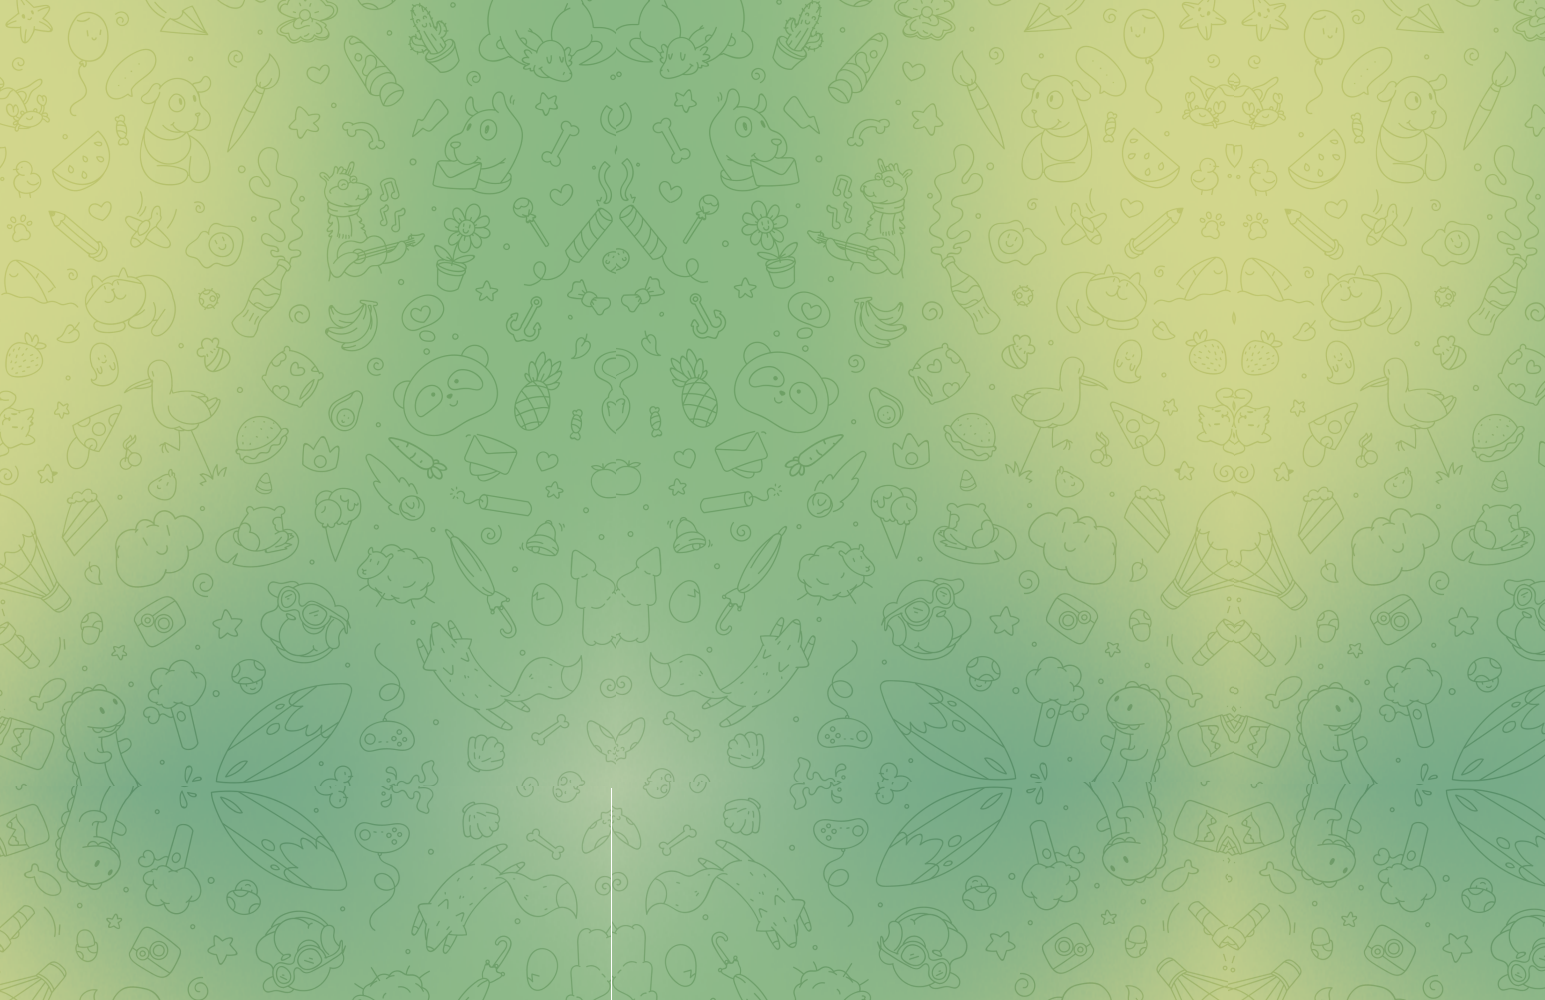
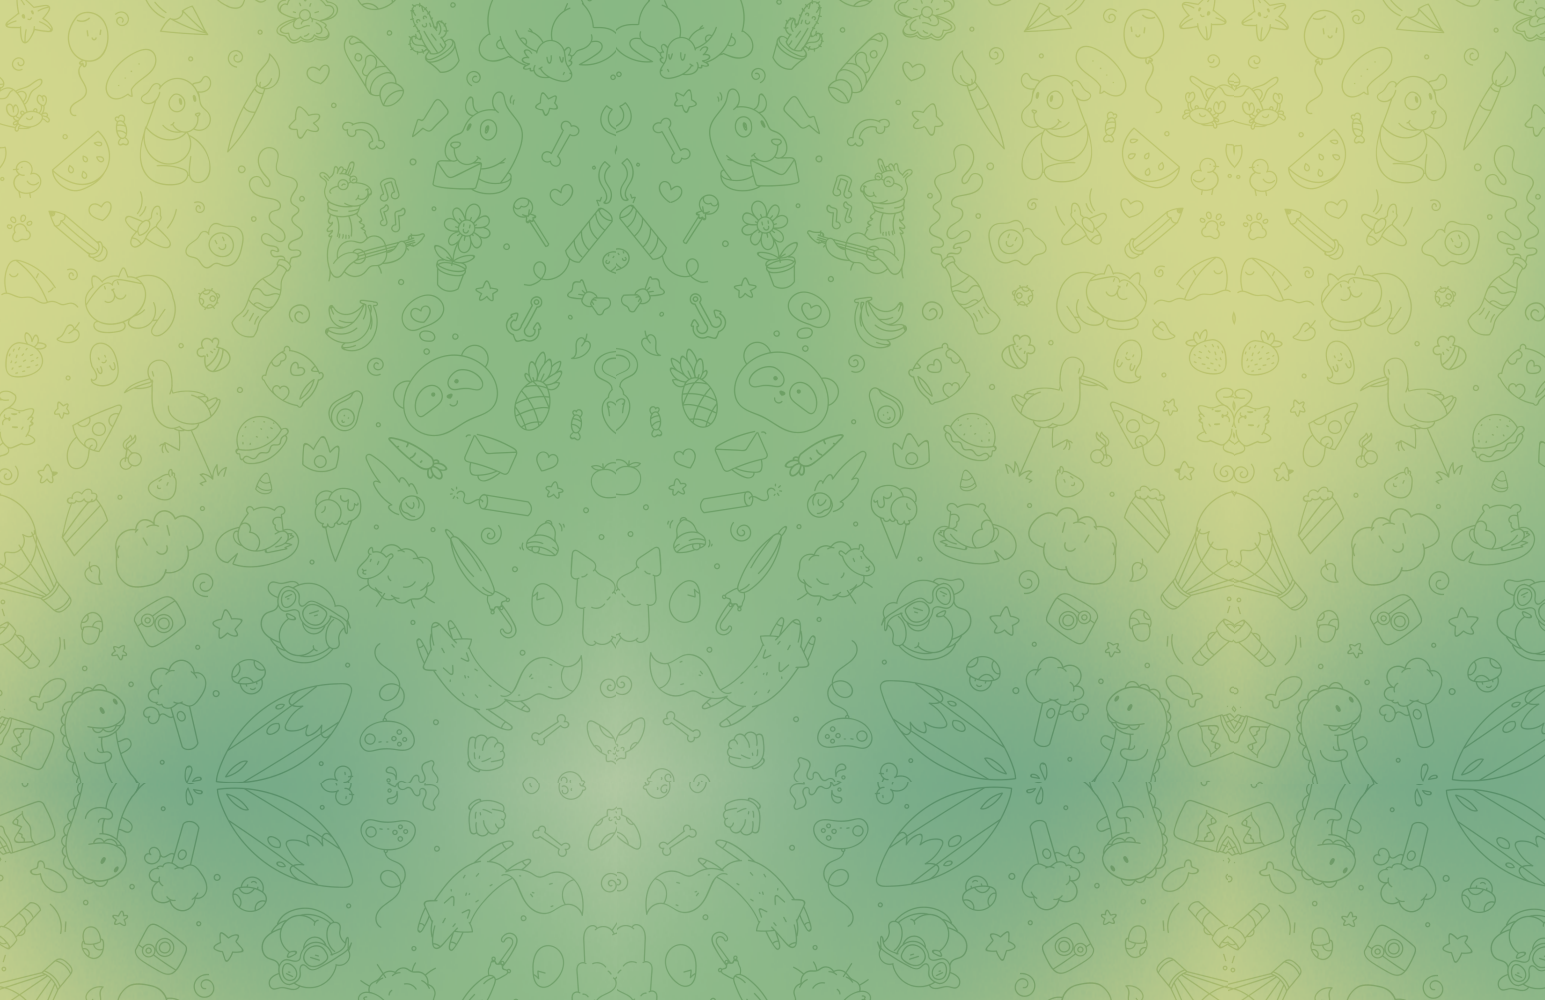
added new database, changed lang, fixed bg picture

diff --git a/src/components/HelpSection.js b/src/components/HelpSection.js
@@ -8,19 +8,19 @@ export default function HelpSection() {
       <div className="img-background"></div>
       <div className="container-help">
         <h3 style={{ color: "#69B2FB" }}>
-          Как программа вычисляет победителя?
+         How Does The Program Pick a Winner?
         </h3>
         <p className="p-text-help">
-          1. Перед запуском программы, происходит сортировка комментариев
-          участников по уникальному "user_id" значению, чтобы уравнять шансы и
-          оставить 1 комментарий за 1 человеком.
+        1. Before starting the program, comments are sorted
+          by unique "user_id" value to even the odds and
+           leave 1 comment per 1 person.
         </p>
         <p className="p-text-help">
-          2. При нажатии кнопки "Случайной Генерации", победитель генерируется
-          по стандартной формуле, на основе{" "}
-          {<span style={{ color: "#FFE44C" }}>Math.random</span>}. Формула
-          выбирает случайное значение в указанном диапазоне чисел, включая min и
-          max значения, более подробно{" "}
+        2. When you click the "Generate" button, a winner is generated
+           according to the standard formula, based on{" "}
+          {<span style={{ color: "#FFE44C" }}>Math.random</span>}. Formula
+           selects a random value in the specified range of numbers, including min and
+           max values, more details{" "}
           {
             <a
               href={urlMathFormula}
@@ -29,14 +29,14 @@ export default function HelpSection() {
               ТУТ
             </a>
           }
-          . На основе полученного случайного числа, выбирается комментарий из
-          списка.
+          . Based on the received random number, a comment is selected from the
+           list.
         </p>
         <p className="p-text-help">
-          3. После того, как комментарий-победитель был выбран, он удаляется из
-          общего массива комментариев, чтобы избежать повторный выигрыш (хотя,
-          какие были бы шансы выиграть при таком раскладе?)
+        3. Once a winning comment has been selected, it is removed from
+           the array of comments-participants
         </p>
+        <p>Database of comments is generated with mockaroo.com </p>
       </div>
       <GithubLinkWithIcon />
     </div>

diff --git a/src/components/Header.js b/src/components/Header.js
@@ -9,17 +9,17 @@ export default function Header(props) {
 
   return (
     <header id="appHeader">
-      <button className="btn-info header-tools-items">
-        <NavLink to="/help" className="btn-info">?</NavLink>
+      <button className="btn-route header-tools-items">
+        <NavLink to="/help">?</NavLink>
       </button>
-      <h2 className="header-tools-items">Участников: {numOfParticipants}</h2>
+      <h2 className="header-tools-items">Participants: {numOfParticipants}</h2>
       {location.pathname == "/" ? (
         <button className="btn-route header-tools-items">
-          <NavLink to="/comments">Комментарии</NavLink>
+          <NavLink to="/comments">Comments</NavLink>
         </button>
       ) : (
         <button className="btn-route header-tools-items">
-          <NavLink to="/">Главная</NavLink>
+          <NavLink to="/">Home</NavLink>
         </button>
       )}
     </header>

diff --git a/public/index.html b/public/index.html
@@ -9,12 +9,10 @@
       name="description"
       content="Web site created using create-react-app"
     />
-    <link rel="apple-touch-icon" href="%PUBLIC_URL%/logo192.png" />
     <!--
       manifest.json provides metadata used when your web app is installed on a
       user's mobile device or desktop. See https://developers.google.com/web/fundamentals/web-app-manifest/
     -->
-    <link rel="manifest" href="%PUBLIC_URL%/manifest.json" />
     <!--
       Notice the use of %PUBLIC_URL% in the tags above.
       It will be replaced with the URL of the `public` folder during the build.
@@ -24,7 +22,7 @@
       work correctly both with client-side routing and a non-root public URL.
       Learn how to configure a non-root public URL by running `npm run build`.
     -->
-    <title>React App</title>
+    <title>Comments Picker</title>
   </head>
   <body>
     <noscript>You need to enable JavaScript to run this app.</noscript>

diff --git a/src/components/PickWinner.js b/src/components/PickWinner.js
@@ -24,7 +24,7 @@ export default function PickWinner(props) {
       <>
         <div className="chat-message">
           <h5>
-            Здесь появится сообщение победителя. Нажмите кнопку, чтобы начать.
+            Winner's message will be displayed here. Press the button to start.
           </h5>
         </div>
       </>
@@ -34,7 +34,7 @@ export default function PickWinner(props) {
   return (
     <div className="pick-winner-container container-element tools">
       <button onClick={handlePickWinner} className="btn-pick-winner">
-        ВЫБРАТЬ
+        GENERATE
       </button>
       {winnerComment == null ? (
         <MessagePlaceholder />

diff --git a/src/App.css b/src/App.css
@@ -16,7 +16,7 @@
   --tools-shadow-radius: 20px;
 }
 
-@media screen and (min-width: 1025px) {
+@media screen and (min-width: 1024px) {
   .btn-pick-winner:hover {
     background: linear-gradient(#ffe0a6, var(--orange-light));
   }
@@ -177,6 +177,8 @@ button {
   position: fixed;
   z-index: -1;
 
+  background-size: cover;
+  background-repeat: no-repeat;
   width: 100vw;
   height: 100vh;
   background-image: url("./images/tg-bg-light-big.png");
@@ -287,7 +289,7 @@ button {
 
 .btn-route {
   background-color: var(--grey-darker);
-  padding: 10px;
+  padding: 7px;
 }
 
 .btn-info {

diff --git a/src/components/Comments.js b/src/components/Comments.js
@@ -7,7 +7,7 @@ export default function Comments(props) {
     <div className="container-comments-list">
       <div className="img-background"></div>
         {comments.map((comment) => (
-            <ChatMessage key={comment.id} comment={comment}/>
+            <ChatMessage key={comment.from_id} comment={comment}/>
         ))}
     </div>
   );

diff --git a/src/App.js b/src/App.js
@@ -32,7 +32,7 @@ export default function App() {
     arr = arr.filter(
       (arr, index, self) =>
         index ===
-        self.findIndex((t) => t.from_id === arr.from_id && t.type === "message")
+        self.findIndex((t) => t.from_id === arr.from_id) // && t.type === "message"
     );
 
     for (let i = 0; i < arr.length; i++) {

diff --git a/src/components/WinnersList.js b/src/components/WinnersList.js
@@ -12,7 +12,7 @@ export default function WinnersList(props) {
         <ul className="winners-list">
           {listOfWinners.map((comment) => (
             <ChatMessage
-              key={comment.id}
+              key={comment.from_id}
               comment={comment}
             />
           ))}

diff --git a/src/components/ChatMessage.js b/src/components/ChatMessage.js
@@ -23,7 +23,7 @@ export default function ChatMessage(props) {
           </a>
           <UserInfo comment={comment} isIdVisible={isIdVisible} />
         </div>
-        {comment.text == "" ? (
+        {comment.thumbnail? (
           <>
             <img
               src={comment.thumbnail}
